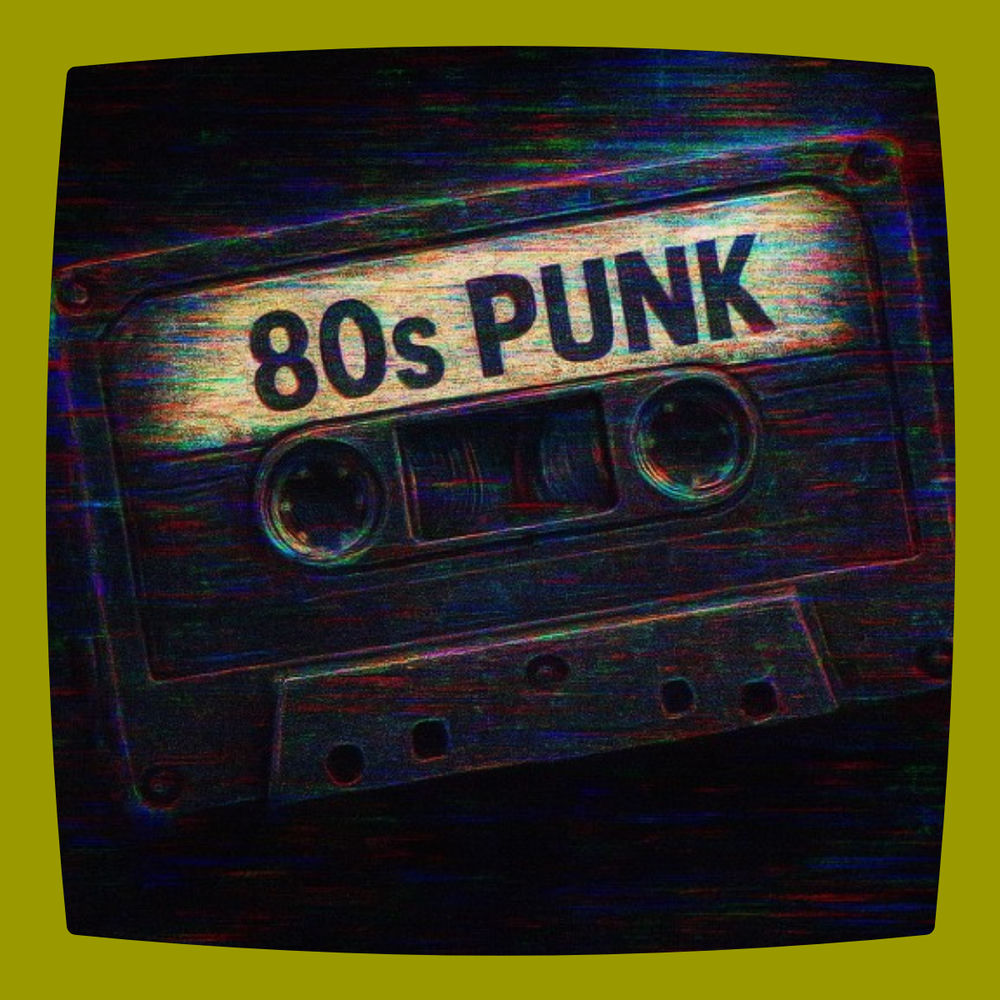
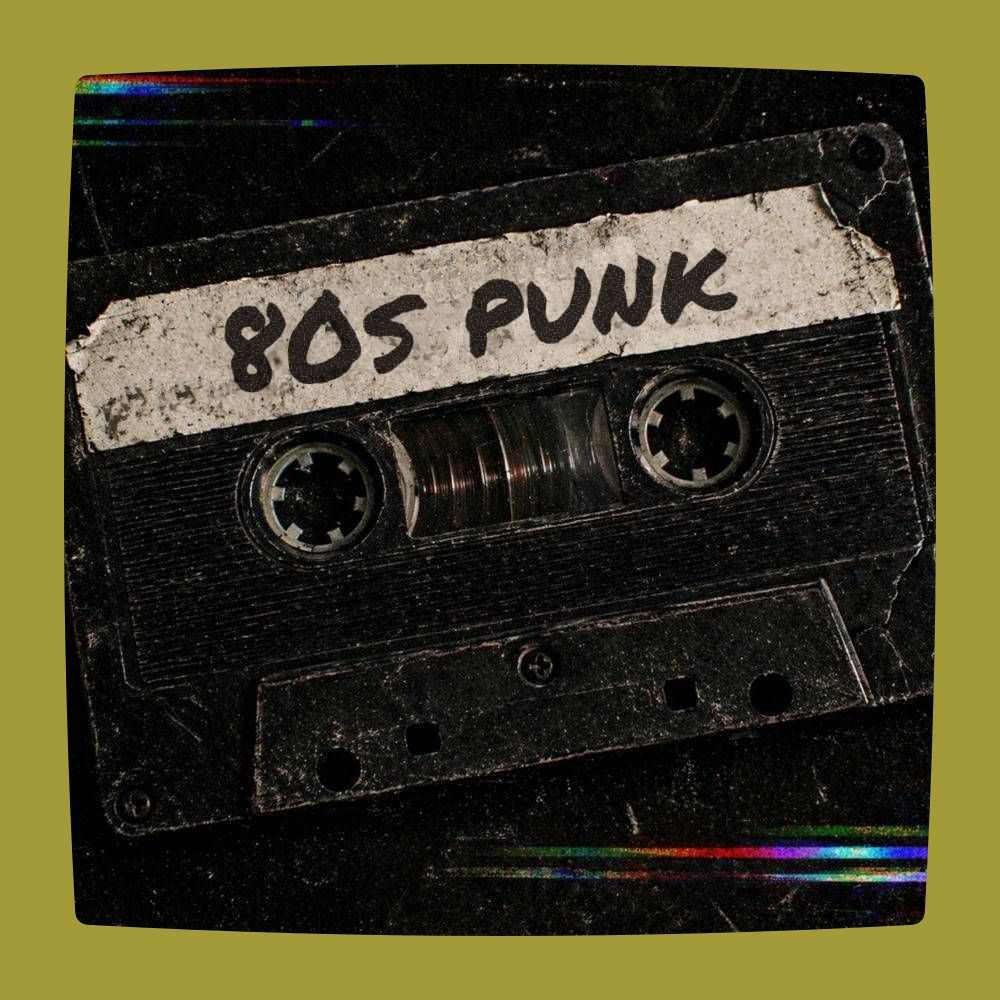
Regenerate Two Minutes Hate cover
80s punk label on the scuffed-black tape, Deezer yellow-green border, plus a YouTube version.

diff --git a/playlists/two-minutes-hate.md b/playlists/two-minutes-hate.md
@@ -12,6 +12,8 @@ artists:
   - "Discharge"
 description: "80s hardcore, nothing much over two minutes. DC, LA, NYC and the UK, from Black Flag to Siege. 30 tracks, 47 minutes, no time to get bored."
 smartlink: https://sdz.sh/LuZUih
+tape: scuffed-black
+label: 80s punk
 ---
 
 ## Rework (Nov 2026)
